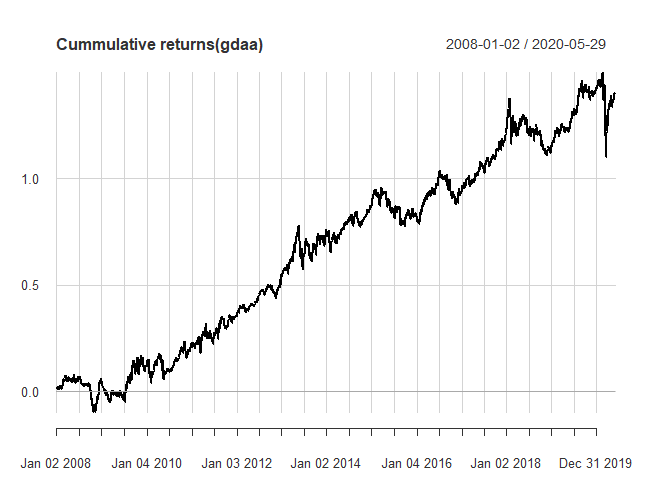
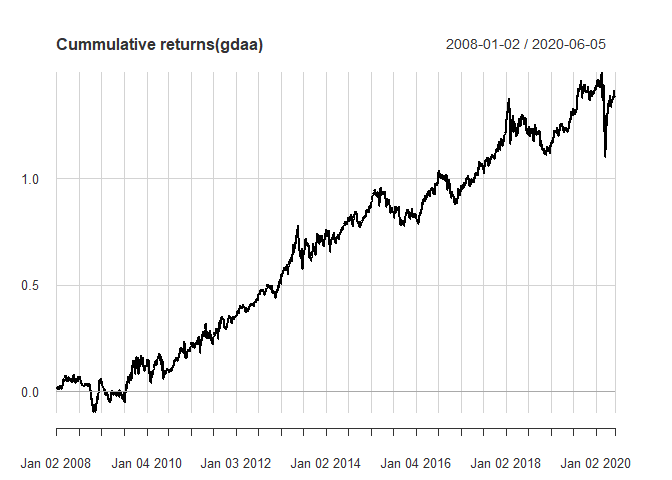
Add prices trend

diff --git a/all_weather.md b/all_weather.md
@@ -50,6 +50,10 @@ cor(rets) %>% corrplot(method = 'color', type = 'upper',
 
 ![](all_weather_files/figure-gfm/corplot-1.png)<!-- -->
 
+#### Prices trend
+
+![](all_weather_files/figure-gfm/trend_1-1.png)<!-- -->
+
 #### Backtesting with ‘Return.portfolio’ function
 
 ``` r
@@ -80,7 +84,7 @@ names(Port_all_net) = 'Returns_allweather'
 
 |             | Cummulative\_return | Annualized\_return | Max\_drawdown | Annualized\_std |
 | ----------- | ------------------: | -----------------: | ------------: | --------------: |
-| All Weather |            1.428604 |          0.0744905 |     0.1448202 |        0.076186 |
+| All Weather |            1.407484 |          0.0736708 |     0.1448199 |       0.0761641 |
 
 Table1: Summarization(All weather
 
@@ -133,6 +137,10 @@ cor(rets) %>% corrplot(method = 'color', type = 'upper',
 ```
 
 ![](all_weather_files/figure-gfm/corplot1-1.png)<!-- -->
+
+#### Prices trend
+
+![](all_weather_files/figure-gfm/trend_2-1.png)<!-- -->
 
 #### Portfolio structuring
 
@@ -209,7 +217,6 @@ names(Port_gdaa_net) = 'Returns_gdaa'
 
 |            |       VTI |       IEV |       EWJ | EEM |       TLT | IEF |       IYR |       RWX |       GLD |       DBC |
 | ---------- | --------: | --------: | --------: | --: | --------: | --: | --------: | --------: | --------: | --------: |
-| 2017-06-30 | 0.3000000 | 0.1033004 | 0.3000000 | 0.1 | 0.0000000 | 0.0 | 0.1966996 | 0.0000000 | 0.0000000 | 0.0000000 |
 | 2017-07-31 | 0.3000000 | 0.1000000 | 0.2994066 | 0.1 | 0.0000000 | 0.0 | 0.0000000 | 0.2005934 | 0.0000000 | 0.0000000 |
 | 2017-08-31 | 0.3000000 | 0.1000000 | 0.2000000 | 0.1 | 0.0000000 | 0.0 | 0.0000000 | 0.0000000 | 0.3000000 | 0.0000000 |
 | 2017-09-29 | 0.3000000 | 0.1000000 | 0.3000000 | 0.1 | 0.0000000 | 0.0 | 0.0000000 | 0.2000000 | 0.0000000 | 0.0000000 |
@@ -223,28 +230,29 @@ names(Port_gdaa_net) = 'Returns_gdaa'
 | 2018-05-31 | 0.1338929 | 0.0000000 | 0.1661071 | 0.1 | 0.0000000 | 0.0 | 0.0000000 | 0.3000000 | 0.0000000 | 0.3000000 |
 | 2018-06-29 | 0.1000000 | 0.0000000 | 0.1000000 | 0.0 | 0.0000000 | 0.0 | 0.2037782 | 0.2962218 | 0.0000000 | 0.3000000 |
 | 2018-07-31 | 0.1000000 | 0.1000000 | 0.0000000 | 0.0 | 0.0000000 | 0.0 | 0.2507946 | 0.2492054 | 0.0000000 | 0.3000000 |
-| 2018-08-31 | 0.1641842 | 0.0000000 | 0.0000000 | 0.0 | 0.3000000 | 0.0 | 0.1000000 | 0.2112502 | 0.0000000 | 0.2245656 |
-| 2018-09-28 | 0.1057625 | 0.0000000 | 0.1000000 | 0.0 | 0.0000000 | 0.3 | 0.2192069 | 0.0000000 | 0.0000000 | 0.2750305 |
-| 2018-10-31 | 0.1420528 | 0.0000000 | 0.0000000 | 0.0 | 0.0000000 | 0.3 | 0.1360440 | 0.0000000 | 0.3000000 | 0.1219032 |
-| 2018-11-30 | 0.1396576 | 0.0000000 | 0.0000000 | 0.0 | 0.1964451 | 0.3 | 0.1000000 | 0.0000000 | 0.2638974 | 0.0000000 |
-| 2018-12-31 | 0.0000000 | 0.0000000 | 0.0000000 | 0.0 | 0.2027645 | 0.3 | 0.1000000 | 0.1372320 | 0.2600035 | 0.0000000 |
-| 2019-01-31 | 0.0000000 | 0.0000000 | 0.0000000 | 0.0 | 0.2083368 | 0.3 | 0.1000000 | 0.1447299 | 0.2469333 | 0.0000000 |
-| 2019-02-28 | 0.1418581 | 0.0000000 | 0.0000000 | 0.0 | 0.2200928 | 0.3 | 0.1000000 | 0.0000000 | 0.2380491 | 0.0000000 |
+| 2018-08-31 | 0.1641841 | 0.0000000 | 0.0000000 | 0.0 | 0.3000000 | 0.0 | 0.1000000 | 0.2112503 | 0.0000000 | 0.2245656 |
+| 2018-09-28 | 0.1057626 | 0.0000000 | 0.1000000 | 0.0 | 0.0000000 | 0.3 | 0.2192068 | 0.0000000 | 0.0000000 | 0.2750306 |
+| 2018-10-31 | 0.1420530 | 0.0000000 | 0.0000000 | 0.0 | 0.0000000 | 0.3 | 0.1360437 | 0.0000000 | 0.3000000 | 0.1219033 |
+| 2018-11-30 | 0.1396579 | 0.0000000 | 0.0000000 | 0.0 | 0.1964442 | 0.3 | 0.1000000 | 0.0000000 | 0.2638979 | 0.0000000 |
+| 2018-12-31 | 0.0000000 | 0.0000000 | 0.0000000 | 0.0 | 0.2027635 | 0.3 | 0.1000000 | 0.1372328 | 0.2600037 | 0.0000000 |
+| 2019-01-31 | 0.0000000 | 0.0000000 | 0.0000000 | 0.0 | 0.2083361 | 0.3 | 0.1000000 | 0.1447304 | 0.2469335 | 0.0000000 |
+| 2019-02-28 | 0.1418584 | 0.0000000 | 0.0000000 | 0.0 | 0.2200914 | 0.3 | 0.1000000 | 0.0000000 | 0.2380502 | 0.0000000 |
 | 2019-03-29 | 0.1000000 | 0.0000000 | 0.0000000 | 0.0 | 0.3000000 | 0.3 | 0.1000000 | 0.2000000 | 0.0000000 | 0.0000000 |
-| 2019-04-30 | 0.1972979 | 0.0000000 | 0.0000000 | 0.1 | 0.3000000 | 0.3 | 0.1027021 | 0.0000000 | 0.0000000 | 0.0000000 |
-| 2019-05-31 | 0.0000000 | 0.0000000 | 0.0000000 | 0.0 | 0.2172963 | 0.3 | 0.1000000 | 0.2200060 | 0.1626977 | 0.0000000 |
-| 2019-06-28 | 0.1681034 | 0.0000000 | 0.0000000 | 0.0 | 0.2448233 | 0.3 | 0.1000000 | 0.0000000 | 0.1870734 | 0.0000000 |
-| 2019-07-31 | 0.1801243 | 0.0000000 | 0.0000000 | 0.0 | 0.2782806 | 0.3 | 0.1000000 | 0.0000000 | 0.1415951 | 0.0000000 |
-| 2019-08-30 | 0.1974379 | 0.0000000 | 0.0000000 | 0.0 | 0.2559449 | 0.3 | 0.1000000 | 0.0000000 | 0.1466172 | 0.0000000 |
-| 2019-09-30 | 0.2165913 | 0.0000000 | 0.0000000 | 0.0 | 0.2409682 | 0.3 | 0.1000000 | 0.0000000 | 0.1424405 | 0.0000000 |
-| 2019-10-31 | 0.0000000 | 0.0000000 | 0.1661672 | 0.0 | 0.3000000 | 0.0 | 0.1000000 | 0.2782453 | 0.1555876 | 0.0000000 |
-| 2019-11-29 | 0.1665984 | 0.0000000 | 0.1979521 | 0.0 | 0.3000000 | 0.0 | 0.1000000 | 0.0000000 | 0.2354496 | 0.0000000 |
+| 2019-04-30 | 0.1972981 | 0.0000000 | 0.0000000 | 0.1 | 0.3000000 | 0.3 | 0.1027019 | 0.0000000 | 0.0000000 | 0.0000000 |
+| 2019-05-31 | 0.0000000 | 0.0000000 | 0.0000000 | 0.0 | 0.2172949 | 0.3 | 0.1000000 | 0.2200065 | 0.1626987 | 0.0000000 |
+| 2019-06-28 | 0.1681037 | 0.0000000 | 0.0000000 | 0.0 | 0.2448221 | 0.3 | 0.1000000 | 0.0000000 | 0.1870742 | 0.0000000 |
+| 2019-07-31 | 0.1801246 | 0.0000000 | 0.0000000 | 0.0 | 0.2782800 | 0.3 | 0.1000000 | 0.0000000 | 0.1415954 | 0.0000000 |
+| 2019-08-30 | 0.1974381 | 0.0000000 | 0.0000000 | 0.0 | 0.2559442 | 0.3 | 0.1000000 | 0.0000000 | 0.1466177 | 0.0000000 |
+| 2019-09-30 | 0.2165916 | 0.0000000 | 0.0000000 | 0.0 | 0.2409678 | 0.3 | 0.1000000 | 0.0000000 | 0.1424407 | 0.0000000 |
+| 2019-10-31 | 0.0000000 | 0.0000000 | 0.1661672 | 0.0 | 0.3000000 | 0.0 | 0.1000000 | 0.2782451 | 0.1555877 | 0.0000000 |
+| 2019-11-29 | 0.1665988 | 0.0000000 | 0.1979515 | 0.0 | 0.3000000 | 0.0 | 0.1000000 | 0.0000000 | 0.2354496 | 0.0000000 |
 | 2019-12-31 | 0.1000000 | 0.1035466 | 0.2542407 | 0.0 | 0.0000000 | 0.0 | 0.2422127 | 0.0000000 | 0.3000000 | 0.0000000 |
-| 2020-01-31 | 0.2916083 | 0.1368056 | 0.0000000 | 0.0 | 0.3000000 | 0.0 | 0.1000000 | 0.0000000 | 0.1715861 | 0.0000000 |
-| 2020-02-28 | 0.3000000 | 0.0000000 | 0.0000000 | 0.0 | 0.1954121 | 0.3 | 0.1000000 | 0.0000000 | 0.1045879 | 0.0000000 |
-| 2020-03-31 | 0.1000000 | 0.0000000 | 0.2046339 | 0.0 | 0.2096468 | 0.3 | 0.0000000 | 0.0000000 | 0.1857193 | 0.0000000 |
-| 2020-04-30 | 0.1000000 | 0.0000000 | 0.1835561 | 0.0 | 0.2304617 | 0.3 | 0.0000000 | 0.0000000 | 0.1859822 | 0.0000000 |
-| 2020-05-29 | 0.1000000 | 0.0000000 | 0.1863169 | 0.0 | 0.2307675 | 0.3 | 0.0000000 | 0.0000000 | 0.1829156 | 0.0000000 |
+| 2020-01-31 | 0.2916081 | 0.1368060 | 0.0000000 | 0.0 | 0.3000000 | 0.0 | 0.1000000 | 0.0000000 | 0.1715860 | 0.0000000 |
+| 2020-02-28 | 0.3000000 | 0.0000000 | 0.0000000 | 0.0 | 0.1954117 | 0.3 | 0.1000000 | 0.0000000 | 0.1045883 | 0.0000000 |
+| 2020-03-31 | 0.1000000 | 0.0000000 | 0.2046341 | 0.0 | 0.2096465 | 0.3 | 0.0000000 | 0.0000000 | 0.1857194 | 0.0000000 |
+| 2020-04-30 | 0.1000000 | 0.0000000 | 0.1835562 | 0.0 | 0.2304615 | 0.3 | 0.0000000 | 0.0000000 | 0.1859823 | 0.0000000 |
+| 2020-05-29 | 0.1000000 | 0.0000000 | 0.1863170 | 0.0 | 0.2307673 | 0.3 | 0.0000000 | 0.0000000 | 0.1829157 | 0.0000000 |
+| 2020-06-05 | 0.1000000 | 0.0000000 | 0.1841164 | 0.0 | 0.2265925 | 0.3 | 0.0000000 | 0.0000000 | 0.1892911 | 0.0000000 |
 
 Table2: Weights
 
@@ -252,7 +260,7 @@ Table2: Weights
 
 |      | Cummulative\_return | Annualized\_return | Max\_drawdown | Annualized\_std |
 | ---- | ------------------: | -----------------: | ------------: | --------------: |
-| GDAA |            1.405778 |          0.0765278 |     0.1631829 |       0.1067171 |
+| GDAA |            1.381675 |          0.0755971 |     0.1631828 |        0.106658 |
 
 Table3: Summarization(GDAA)
 
@@ -272,5 +280,5 @@ charts.PerformanceSummary(portfolios, main = 'All weather vs GDAA')
 
 |             | Annualized\_return | Cummulative\_return | Max\_drawdown | Annualized\_std |
 | ----------- | -----------------: | ------------------: | ------------: | --------------: |
-| All Weather |          0.0744905 |            1.428604 |     0.1448202 |       0.0761860 |
-| GDAA        |          0.0765278 |            1.405778 |     0.1631829 |       0.1067171 |
+| All Weather |          0.0736708 |            1.407484 |     0.1448199 |       0.0761641 |
+| GDAA        |          0.0755971 |            1.381675 |     0.1631828 |       0.1066580 |
